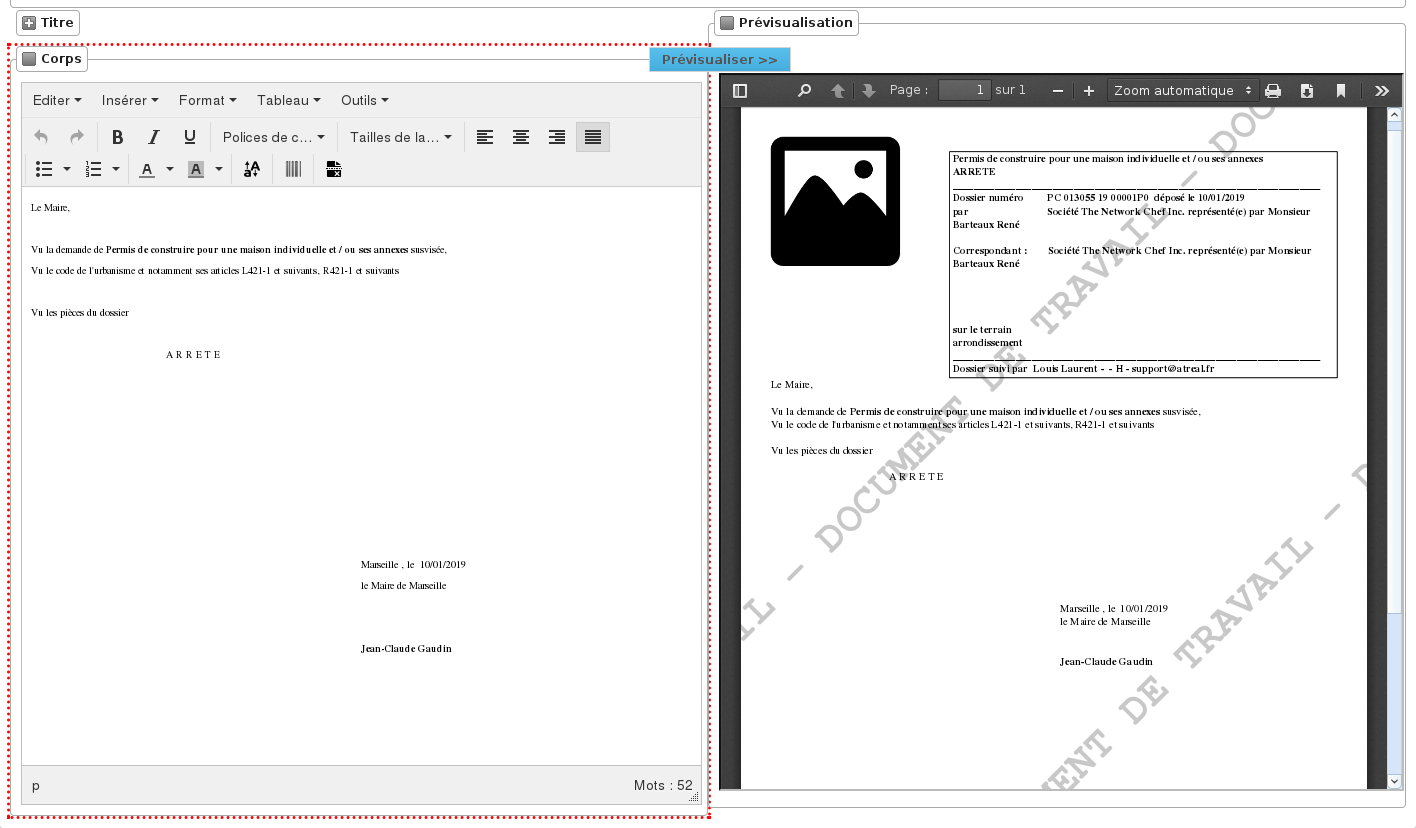
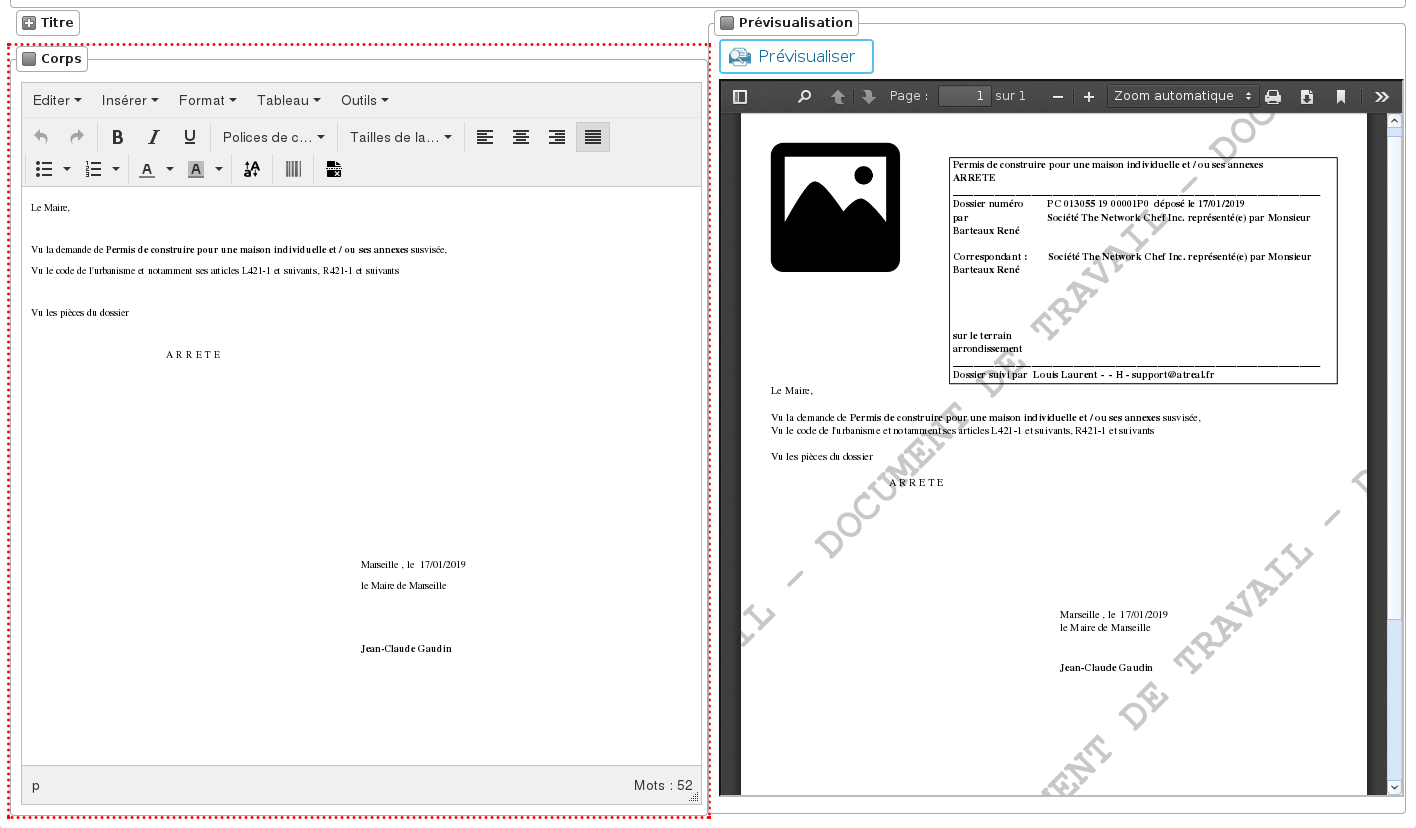
Dans la section "Événements d'instruction": ajout de l'action d'ajout et restructuration légère de la hirarchie des sous-sections

diff --git a/source/manuel_utilisateur/instruction.rst b/source/manuel_utilisateur/instruction.rst
@@ -564,17 +564,36 @@ Il est possible de télécharger l'intégralité des pièces du dossier final so
 Événements d'instruction
 ========================
 
+Ajout
+=====
+
+.. image:: instruction_form_ajout.png
+
+Pour ajouter un évènement d'instruction, il suffit de saisir:
+
+* le type d'évènement
+* la date de l'évènement
+* (\*) le signataire
+* (\*) le type de rédaction (*libre* ou par *compléments*)
+
+(\*) Affichés ou non selon le type d'évènement.
+
+.. note:: À partir de la version 4.10.0, il y a un masquage des champs inutiles à cette étape d'ajout (dates de suivi et compléments)
+
+Modification
+============
+
 .. image:: instruction_form_edition.png
 
 Événement
-=========
+#########
 
 * **événement** : sélection de l'événement d'instruction
 * **date d'événement** : date de l'événement (date du jour par défaut)
 * **lettre type** : choix de la lettre type affectée à cet événement d'instruction
 
 Dates
-=====
+#####
 
 Dates de suivi chronologique de l'événement d'instruction.
 
@@ -590,7 +609,7 @@ Dates de suivi chronologique de l'événement d'instruction.
 .. _instruction_complement:
 
 Compléments
-===========
+###########
 
 Les champs de complément permettent l'introduction d'un texte personnalisé dans
 l'édition.
@@ -622,13 +641,13 @@ avec leurs avis.
 .. _previsualisation_edition:
 
 Prévisualisation de l'édition
-=============================
+#############################
 
 Si le :ref:`paramètre<parametrage_parametre>` **option_previsualisation_edition**
 est activé pour la collectivité du dossier d'instruction en contexte, alors le
 rendu du PDF sur le formulaire de modification des événements d'instruction qui
 ont une lettre type associée est affiché. Après avoir modifié un complément, on
-peut regénérer l'édition en cliquant sur *Actualiser*.
+peut regénérer l'édition en cliquant sur *Prévisualiser*.
 
 .. image:: instruction_previsualisation_edition.png
 
@@ -638,7 +657,7 @@ peut regénérer l'édition en cliquant sur *Actualiser*.
 .. _redaction_libre:
 
 Rédaction libre
-===============
+###############
 
 Si le :ref:`paramètre<parametrage_parametre>` **option_redaction_libre** est
 activé pour la collectivité du dossier d'instruction en contexte, alors apparait
